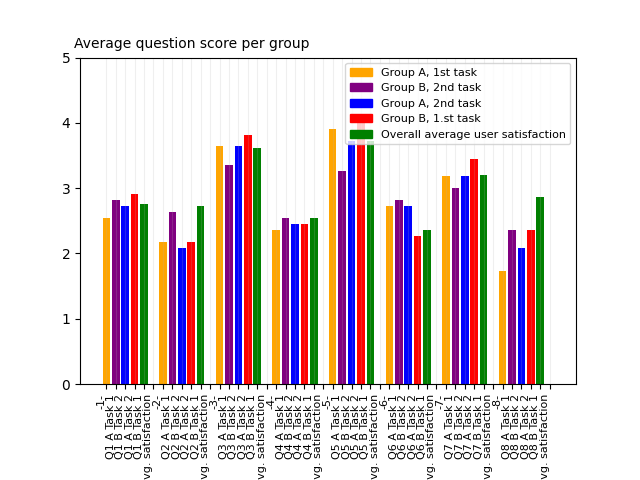
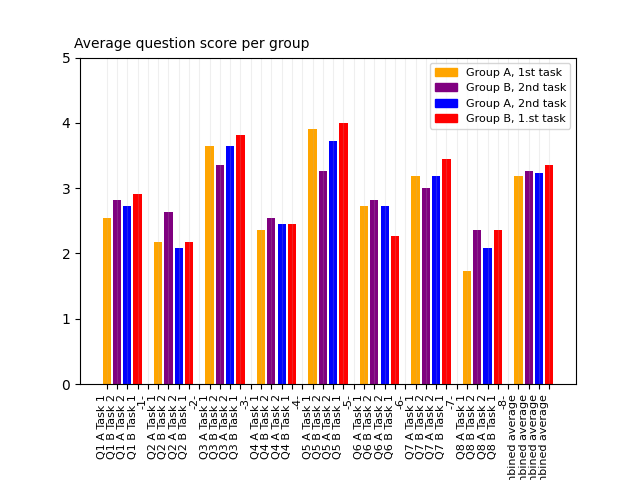
fixed graph

diff --git a/survey_graph.py b/survey_graph.py
@@ -64,22 +64,33 @@ for question_index in range(8):
     result_array[question_index].append(graph_dictionary["b"]["second"][question_index])
     result_array[question_index].append(graph_dictionary["a"]["second"][question_index])
     result_array[question_index].append(graph_dictionary["b"]["first"][question_index])
-    sum = graph_dictionary["a"]["first"][question_index] + graph_dictionary["b"]["second"][question_index] + graph_dictionary["a"]["second"][question_index] + graph_dictionary["b"]["first"][question_index]
-    avg_sum = sum / 4
-    if question_index % 2 != 0:  # every other question is negated
-        avg_sum = abs(avg_sum - 5)
-    result_array[question_index].append(avg_sum)
     result_array[question_index].append(0)
 
 
-    x_task_label.append("-{}-".format(question_index + 1))
     x_task_label.append("Q{} A Task 1".format(question_index+1))
     x_task_label.append("Q{} B Task 2".format(question_index+1))
     x_task_label.append("Q{} A Task 2".format(question_index+1))
     x_task_label.append("Q{} B Task 1".format(question_index+1))
-    x_task_label.append("Q{} avg. satisfaction".format(question_index + 1))
+    x_task_label.append("-{}-".format(question_index + 1))
 
+sums = [0,0,0,0]
+for question_index in range(8):
+    sums[0] += graph_dictionary["a"]["first"][question_index]
+    sums[1] += graph_dictionary["b"]["second"][question_index]
+    sums[2] += graph_dictionary["a"]["second"][question_index]
+    sums[3] += graph_dictionary["b"]["first"][question_index]
 
+new_max = len(result_array)
+result_array[new_max] = []
+result_array[new_max].append(sums[0]/(new_max-1))
+result_array[new_max].append(sums[1]/(new_max-1))
+result_array[new_max].append(sums[2]/(new_max-1))
+result_array[new_max].append(sums[3]/(new_max-1))
+
+x_task_label.append("Group A Task 1 combined average")
+x_task_label.append("Group B Task 2 combined average")
+x_task_label.append("Group A Task 2 combined average")
+x_task_label.append("Group B Task 1 combined average")
 #print(result_array)
 #x_question_label = ["question {}".format(number + 1) for number in result_array]
 
@@ -93,12 +104,12 @@ orange_patch = mpatches.Patch(color='orange', label='Group A, 1st task')
 purple_patch = mpatches.Patch(color='purple', label='Group B, 2nd task')
 blue_patch = mpatches.Patch(color='blue', label='Group A, 2nd task')
 red_patch = mpatches.Patch(color='red', label='Group B, 1.st task')
-green_patch = mpatches.Patch(color='green', label='Overall average user satisfaction')
+#green_patch = mpatches.Patch(color='green', label='Overall average user satisfaction')
 null_patch = mpatches.Patch(color='black', label="")
 
-plt.legend(handles=[orange_patch,purple_patch,blue_patch,red_patch,green_patch],loc=1,fontsize=8)
+plt.legend(handles=[orange_patch,purple_patch,blue_patch,red_patch],loc=1,fontsize=8)
 
-plt.bar(x_task_label,x_values,color=["orange","purple","blue","red","green","black"])
+plt.bar(x_task_label,x_values,color=["orange","purple","blue","red","black"])
 plt.ylim(0, 5)
 plt.tick_params(axis='x', which='major', labelsize=8, rotation="auto")
 plt.figtext(0.3, 0.90, "Average question score per group", wrap=True, horizontalalignment='center', fontsize=10)
